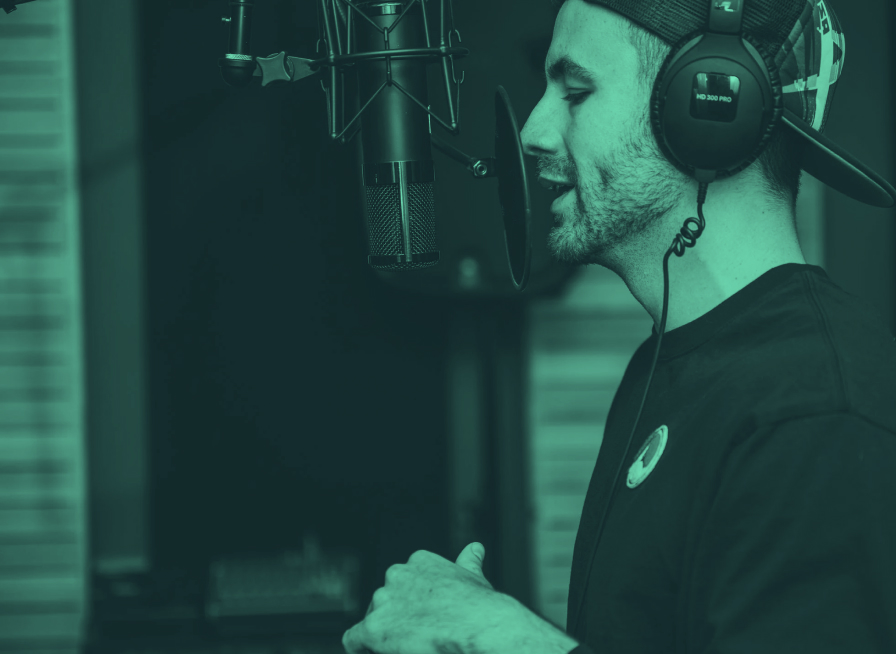
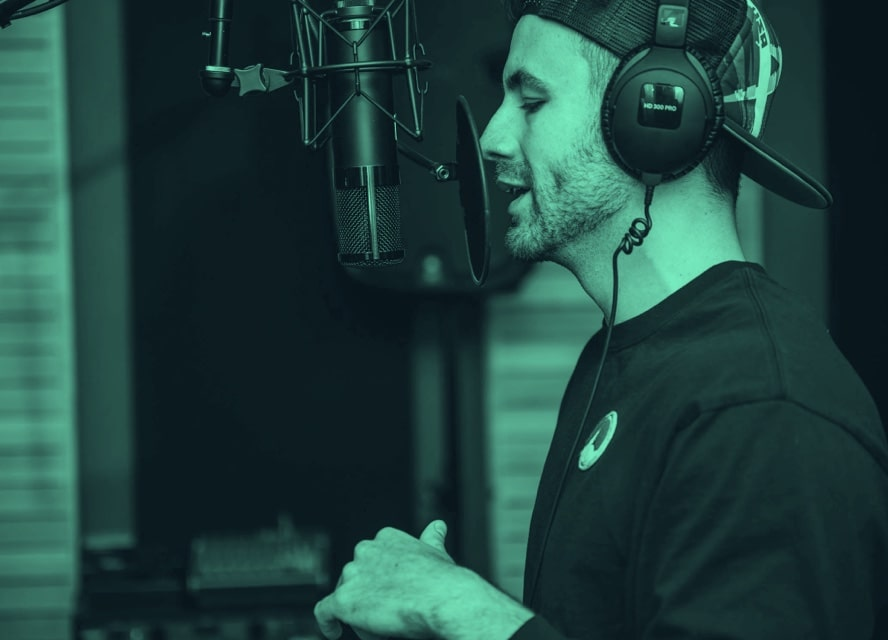
update pod page

diff --git a/pod-request-access-landing-page/assets/css/main.css b/pod-request-access-landing-page/assets/css/main.css
@@ -22,7 +22,7 @@
 }
 @media (min-width: 1024px) {
   .body {
-    padding: 11.111vw;
+    padding: 110px 11.111vw;
   }
 }
 
@@ -69,7 +69,7 @@ main {
 @media (min-width: 1024px) {
   .host-img {
     height: 654px;
-    top: 164px;
+    top: 127px;
     left: auto;
     right: -450px;
   }
@@ -122,7 +122,7 @@ main {
   font-weight: 300;
   font-size: 32px;
   line-height: 120%;
-  letter-spacing: 0;
+  letter-spacing: 1px;
   text-transform: uppercase;
   padding-bottom: 16px;
 }
@@ -278,7 +278,7 @@ main {
 @media (min-width: 1024px) {
   .content {
     padding: 6.111vw 4.444vw 0 0;
-    width: 736px;
+    width: 715px;
     grid-template-columns: repeat(7, 1fr);
     row-gap: 4.167vh;
   }
@@ -304,6 +304,6 @@ main {
 @media (min-width: 1024px) {
   .dots {
     right: 0;
-    bottom: 90px;
+    bottom: 127px;
   }
 }/*# sourceMappingURL=main.css.map */

diff --git a/pod-request-access-landing-page/assets/scss/main.scss b/pod-request-access-landing-page/assets/scss/main.scss
@@ -18,7 +18,7 @@
     }
 
     @include breakpoint(desktop) {
-        padding: 11.111vw;
+        padding: 110px 11.111vw;
     }
 }
 
@@ -59,7 +59,7 @@ main {
 
     @include breakpoint(desktop) {
         height: 654px;
-        top: 164px;
+        top: 127px;
         left: auto;
         right: -450px;
         
@@ -227,7 +227,7 @@ main {
 
     @include breakpoint(desktop) {
         padding: 6.111vw 4.444vw 0 0;
-        width: 736px;
+        width: 715px;;
         grid-template-columns: repeat(7, 1fr);
         row-gap: 4.167vh; 
 
@@ -253,6 +253,6 @@ main {
 
     @include breakpoint(desktop) {
         right: 0;
-        bottom: 90px;
+        bottom: 127px;
     }
 }

diff --git a/pod-request-access-landing-page/assets/scss/base/_typography.scss b/pod-request-access-landing-page/assets/scss/base/_typography.scss
@@ -5,7 +5,7 @@
     font-weight: 300;
     font-size: 32px;
     line-height: 120%;
-    letter-spacing: 0;
+    letter-spacing: 1px;
     text-transform: uppercase;
 
     @include breakpoint(tablet) {
